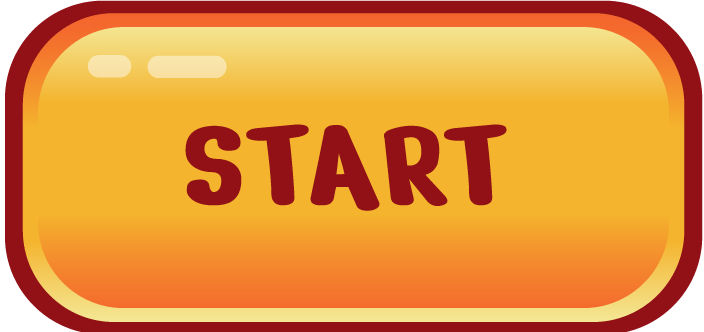
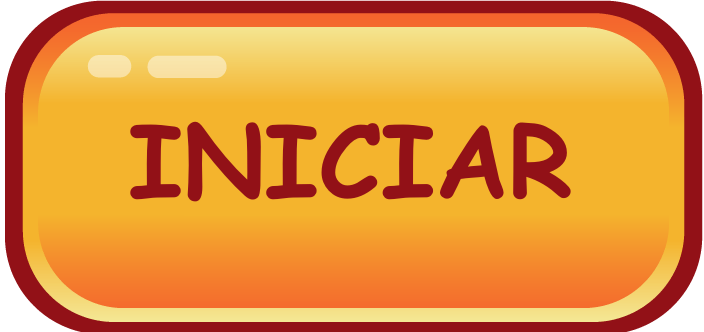
Traducción 1.0

Changed region(s): [[0.1875, 0.3614, 0.8125, 0.6325]]

diff --git a/index.html b/index.html
@@ -2,21 +2,21 @@
 <html lang="en" dir="ltr">
   <head>
     <meta charset="utf-8" />
-    <title>Bike-Race</title>
+    <title>Carrera de bicicletas</title>
     <script src="https://cdnjs.cloudflare.com/ajax/libs/p5.js/0.9.0/p5.min.js"></script>
     <script src="https://cdnjs.cloudflare.com/ajax/libs/p5.js/0.9.0/addons/p5.dom.min.js"></script>
     <script src="https://cdnjs.cloudflare.com/ajax/libs/p5.js/0.9.0/addons/p5.sound.min.js"></script>
     <script src="p5.play.js"></script>
 
-    <!-- The core Firebase JS SDK is always required and must be listed first -->
+    <!-- El SDK central de Firebase JS siempre es necesario y debe aparecer en primer lugar -->
     <script src="https://www.gstatic.com/firebasejs/8.6.5/firebase-app.js"></script>
     <script src="https://www.gstatic.com/firebasejs/8.6.5/firebase-database.js"></script>
 
-    <!-- TODO: Add SDKs for Firebase products that you want to use
+    <!-- HACER: Agrega las SDKs de los productos de Firebase que quieres usar.
      https://firebase.google.com/docs/web/setup#available-libraries -->
 
     <script>
-      // Your web app's Firebase configuration
+      // La configuración de tu app web de Firebase.
       const firebaseConfig = {
         apiKey: "AIzaSyBNS9XSDC2teK8A7nfxL3QldH76kzDV2rc",
         authDomain: "multiplayer-bike-racing-be285.firebaseapp.com",
@@ -28,7 +28,7 @@
         appId: "1:804936105031:web:644d20f2c63baa081a0562",
         measurementId: "G-TVBRRNYDSZ"
       };
-      // Initialize Firebase
+      // Inicializar Firebase.
       firebase.initializeApp(firebaseConfig);
     </script>
     <script src="js/form.js"></script>

diff --git a/js/form.js b/js/form.js
@@ -1,7 +1,7 @@
 class Form {
   constructor() {
     this.greetings = createElement("h2");
-    this.input = createInput("name");
+    this.input = createInput("nombre");
     this.buttonImg = createImg("./images/start.png");
     this.greetings2 = createElement("h2");
   }
@@ -11,7 +11,7 @@ class Form {
     this.buttonImg.position(475 + 50, 250);
     this.buttonImg.size(150, 50);
 
-    var reset = createButton("Reset");
+    var reset = createButton("Reiniciar");
     reset.position(750, 20);
     reset.mousePressed(() => {
       player.updateBikesAtEnd(0);
@@ -33,7 +33,7 @@ class Form {
       player.index = playerCount;
       player.addPlayer();
       player.updateCount(playerCount);
-      this.greetings.html("Hello " + player.name);
+      this.greetings.html("Hola " + player.name);
       this.greetings.position(300, 180);
     });
   }
@@ -45,7 +45,7 @@ class Form {
   }
   end() {
     if (player.rank >= 4) {
-      var reset = createButton("Reset");
+      var reset = createButton("Reiniciar");
       reset.position(750, 20);
       reset.mousePressed(() => {
         player.updateBikesAtEnd(0);
@@ -59,7 +59,7 @@ class Form {
     }
 
     this.greetings2.html(
-      "Congratulations " + player.name + " Your Rank is " + player.rank
+      "Felicidades " + player.name + " Tu posición es " + player.rank
     );
     this.greetings2.class("greeting");
     this.greetings2.position(300, 185);

diff --git a/js/game.js b/js/game.js
@@ -129,7 +129,7 @@ class Game {
 
   handleBikeCollision(index) {
     if (index - 1 === 0) {
-      console.log("Player 1");
+      console.log("Jugador 1");
       if (
         bikes[index - 1].collide(bikes[1]) ||
         bikes[index - 1].collide(bikes[2]) ||
@@ -141,7 +141,7 @@ class Game {
     }
 
     if (index - 1 === 1) {
-      console.log("Player 2");
+      console.log("Jugador 2");
 
       if (
         bikes[index - 1].collide(bikes[0]) ||
@@ -154,7 +154,7 @@ class Game {
     }
 
     if (index - 1 === 2) {
-      console.log("Player 3");
+      console.log("Jugador 3");
 
       if (
         bikes[index - 1].collide(bikes[0]) ||
@@ -167,7 +167,7 @@ class Game {
     }
 
     if (index - 1 === 3) {
-      console.log("Player 4");
+      console.log("Jugador 4");
       if (
         bikes[index - 1].collide(bikes[0]) ||
         bikes[index - 1].collide(bikes[1]) ||

diff --git a/README.md b/README.md
@@ -1,1 +1,1 @@
-# 4PlayerBikeRace
+# C43 CARRERA DE BICICLETAS
